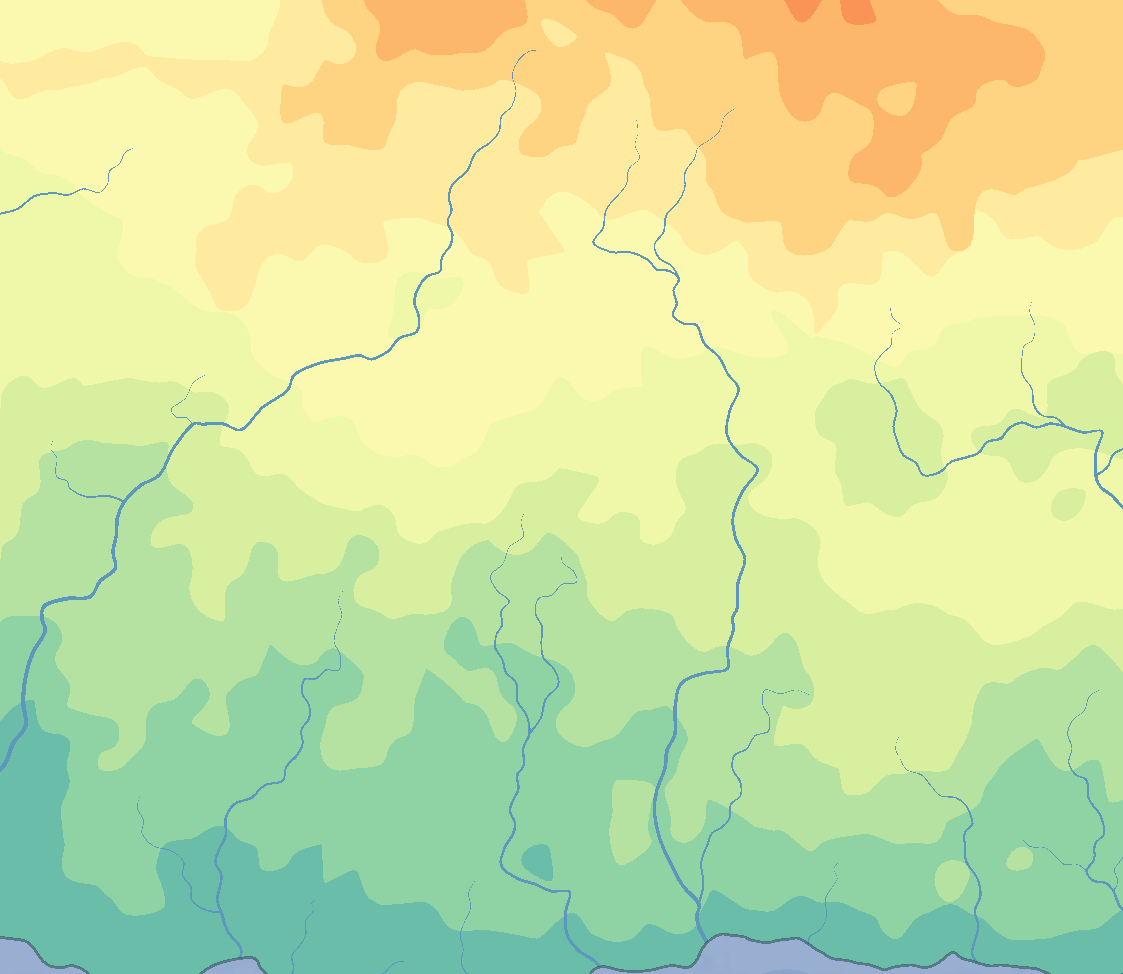
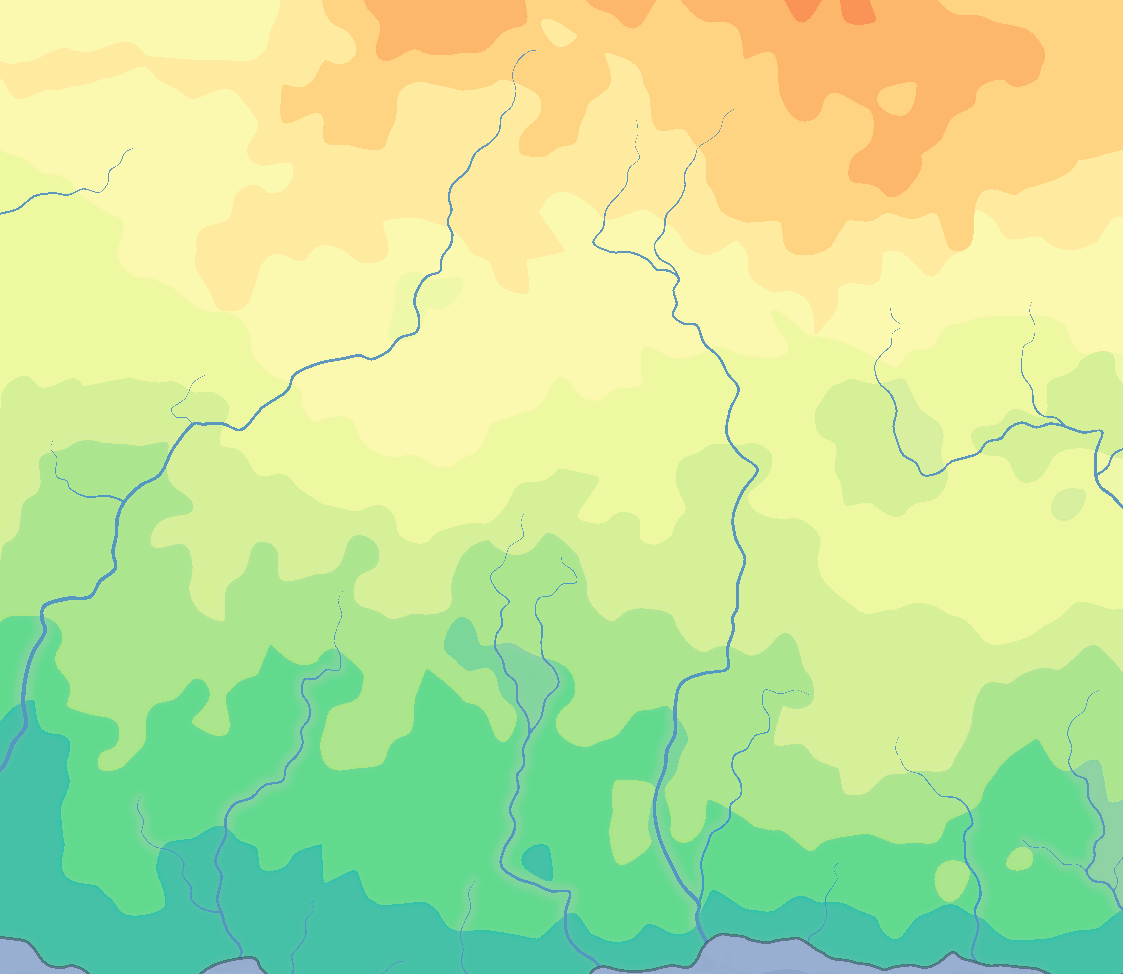
feat: fine-tune simulation runs (#8)
* feat: fine-tune simulation runs

* fix: restore metrics.py

Changed region(s): [[0.0, 0.616, 1.0, 1.0]]

diff --git a/src/controller/handlers/sampling/world_map_sample.py b/src/controller/handlers/sampling/world_map_sample.py
@@ -35,8 +35,8 @@ class WorldMapSample:
         green_index = abs(
             self.__hue(x, y) - 120
         )  # 120 - angle for green, green_index == 0 -> greenest
-        vegetation_factor = max(0, 60 - green_index) / 60
-        light_factor = max(0, self.__value(x, y) - 215) / 40
+        vegetation_factor = max(0, 100 - abs(self.__hue(x, y) - 120)) / 100
+        light_factor = max(0, self.__value(x, y) - 155) / 100
         return {
             "grass_amount": int(20 * vegetation_factor),
             "grass_growth": int(10 * light_factor),
@@ -47,8 +47,8 @@ class WorldMapSample:
         """Only grows in areas with some saturation (enough resources) and sufficient light."""
         saturation_factor = self.__saturation(x, y) / 255
         has_tall_grass = saturation_factor > 0.3
-        vegetation_factor = max(0, 60 - abs(self.__hue(x, y) - 120)) / 60
-        light_factor = max(0, self.__value(x, y) - 215) / 40
+        vegetation_factor = max(0, 100 - abs(self.__hue(x, y) - 120)) / 100
+        light_factor = max(0, self.__value(x, y) - 155) / 100
         return {
             "tall_grass_amount": int(10 * vegetation_factor) if has_tall_grass else 0,
             "tall_grass_growth": int(10 * light_factor) if has_tall_grass else 0,
@@ -61,8 +61,8 @@ class WorldMapSample:
         """Fruiting plants only grow in areas with high saturation (more resources) and sufficient light."""
         saturation_factor = self.__saturation(x, y) / 255
         has_fruit = saturation_factor > 0.5
-        vegetation_factor = max(0, 60 - abs(self.__hue(x, y) - 120)) / 60
-        light_factor = max(0, self.__value(x, y) - 215) / 40
+        vegetation_factor = max(0, 100 - abs(self.__hue(x, y) - 120)) / 100
+        light_factor = max(0, self.__value(x, y) - 155) / 100
         return {
             "fruit_amount": int(10 * vegetation_factor) if has_fruit else 0,
             "fruit_growth": int(10 * light_factor) if has_fruit else 0,
@@ -84,11 +84,11 @@ class WorldMapSample:
         return int(50 * saturation_factor)
 
     def temperature_seed(self, x: int, y: int) -> int:
-        """Calculate temperature based on hue, where redder colors are hotter."""
+        """Calculate temperature based on hue, where redder colors are higher and therefore colder."""
         red_index = abs(
             (self.__hue(x, y) + 180) % 360 - 180
         )  # handle the 360 / 0 deg point on the circle, 0 - reddest
-        temperature_factor = 1 - red_index / 180
+        temperature_factor = red_index / 180
         return int(28 * temperature_factor)
 
     def color_at(self, x: int, y: int) -> list[int]:

diff --git a/src/config/default/view_config.py b/src/config/default/view_config.py
@@ -32,7 +32,7 @@ class ViewConfig(BaseModel):
     )
 
     # Sidebar
-    SIDEBAR_WIDTH: PositiveInt = Field(default=280, ge=200, le=400)
+    SIDEBAR_WIDTH: PositiveInt = Field(default=280, ge=200, le=800)
     SIDEBAR_BG_COLOR: tuple[NonNegativeInt, NonNegativeInt, NonNegativeInt] = Field(
         default=(22, 22, 22)
     )
@@ -40,7 +40,7 @@ class ViewConfig(BaseModel):
         default=(90, 90, 90)
     )
     SIDEBAR_BORDER_WIDTH: PositiveInt = Field(default=2, ge=1)
-    SIDEBAR_WIDTH: PositiveInt = Field(default=280, ge=200, le=400)
+    SIDEBAR_WIDTH: PositiveInt = Field(default=280, ge=200, le=800)
     SIDEBAR_MARGIN: PositiveInt = Field(default=15, ge=0)
 
     # Agents
@@ -89,7 +89,7 @@ class ViewConfig(BaseModel):
     SMALL_FONT_SIZE: PositiveInt = Field(default=16, ge=10)
 
     # Metrics
-    METRICS_PANEL_WIDTH: PositiveInt = Field(default=275, ge=275, le=400)
+    METRICS_PANEL_WIDTH: PositiveInt = Field(default=600, ge=275, le=800)
     METRICS_BG_COLOR: tuple[NonNegativeInt, NonNegativeInt, NonNegativeInt] = Field(
         default=(30, 30, 30)
     )
